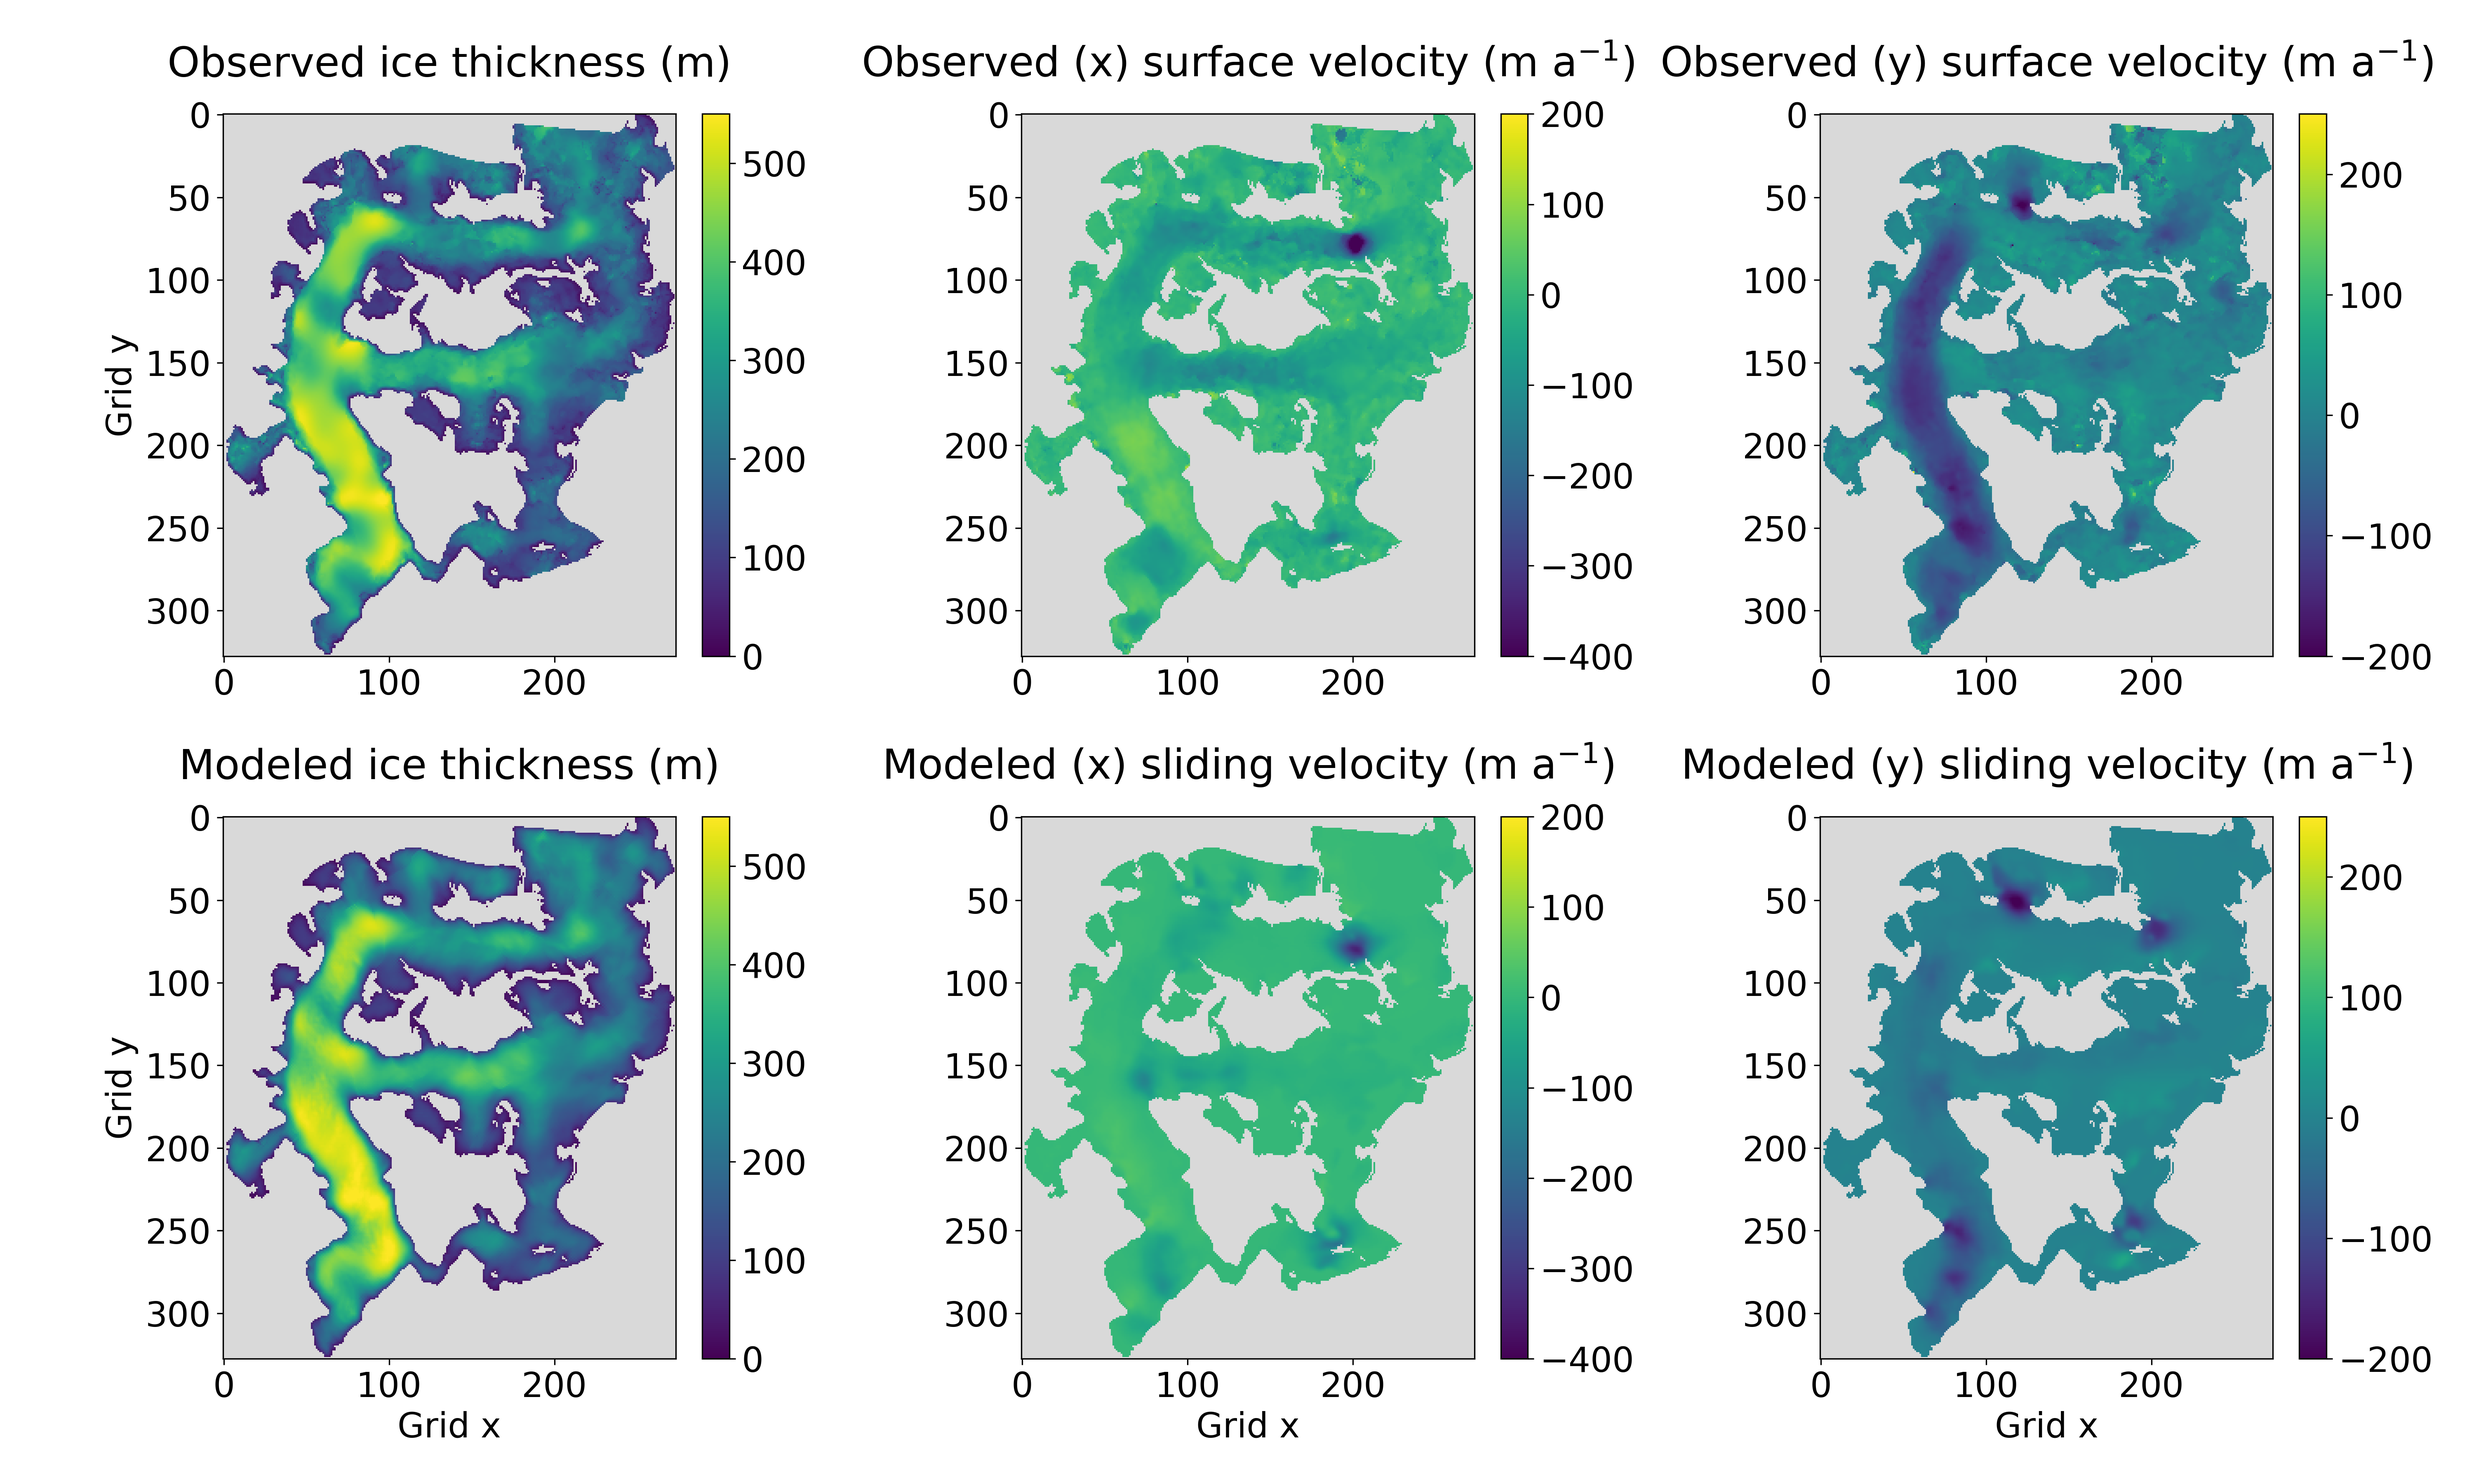
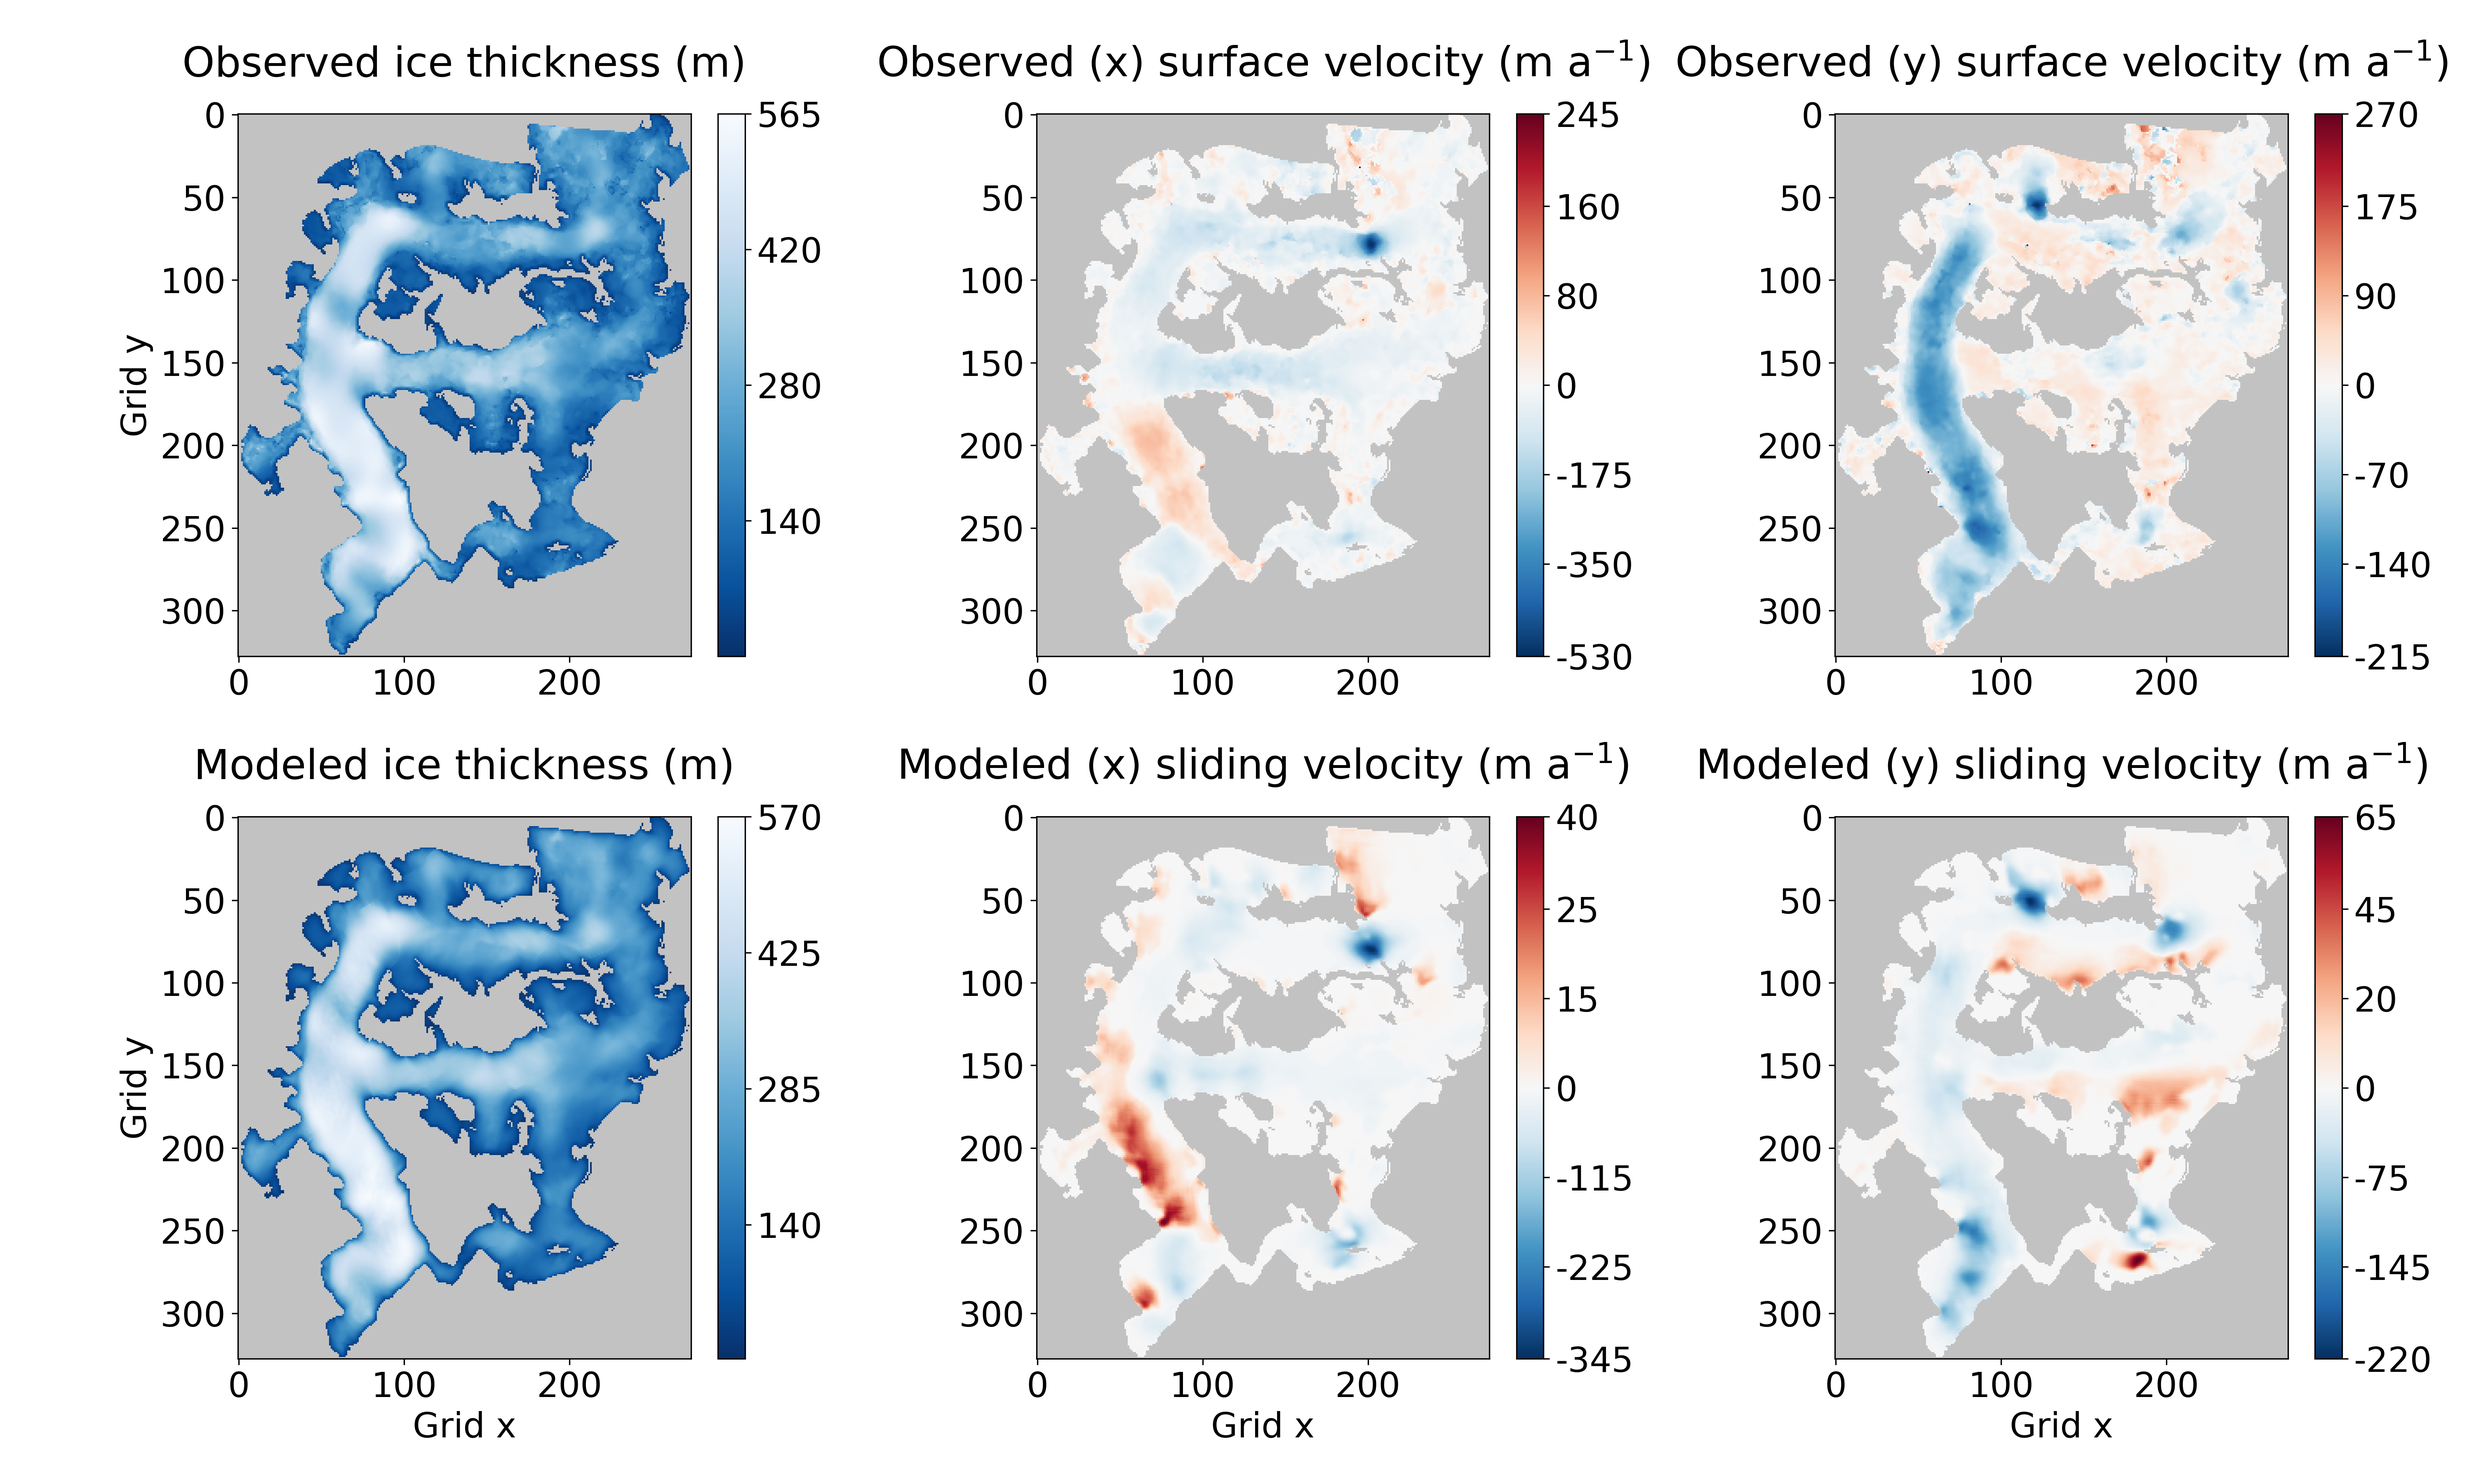
Update BCs plot

diff --git a/inputs/plot_boundary_conditions.py b/inputs/plot_boundary_conditions.py
@@ -27,12 +27,6 @@ titles = [
     'Modeled (y) sliding velocity (m a$^{-1}$)'
 ]
 
-minmax = [
-    [0, 550],
-    [-400, 200],
-    [-200, 250]
-]
-
 mask = geology['icemask'][:]
 
 fig, ax = plt.subplots(2, 3, figsize = (20, 12))
@@ -44,16 +38,29 @@ for i in range(len(np.ravel(ax))):
         fields[i],
         np.nan
     )
-    if i < 3:
-        mn, mx = minmax[i]
-    else:
-        mn, mx = minmax[i - 3]
+    
+    mn = np.nanmin(plot)
+    mx = np.nanmax(plot)
 
-    axis.imshow(mask + 0.75, cmap = 'Greys_r', vmin = 0, vmax = 1)
-    im = axis.imshow(plot, cmap = 'viridis', vmin = mn, vmax = mx)
+    axis.imshow(mask + 0.65, cmap = 'Greys_r', vmin = 0, vmax = 1)
+
+    if i in [0, 3]:
+        cmap = 'Blues_r'
+        im = axis.imshow(plot, cmap = cmap)
+    else:
+        divnorm = TwoSlopeNorm(vmin = mn, vcenter = 0, vmax = mx)
+        cmap = 'RdBu_r'
+        im = axis.imshow(plot, cmap = cmap, norm = divnorm)
     
     axis.set_title(titles[i], y = 1.05)
-    plt.colorbar(im, ax = axis, fraction = 0.0543, pad = 0.04)
+    
+    if i in [0, 3]:
+        cbar_ticks = [0, 0.25 * mx, 0.5 * mx, 0.75 * mx, mx]
+    else:
+        cbar_ticks = [mn, 0.66 * mn, 0.33 * mn, 0, 0.33 * mx, 0.66 * mx, mx]
+
+    cbar = plt.colorbar(im, ax = axis, fraction = 0.0543, pad = 0.04, ticks = cbar_ticks)
+    cbar.ax.set_yticklabels([str(int(5 * round(i / 5))) for i in cbar_ticks])
 
     if i in [3, 4, 5]:
         axis.set_xlabel('Grid x')
